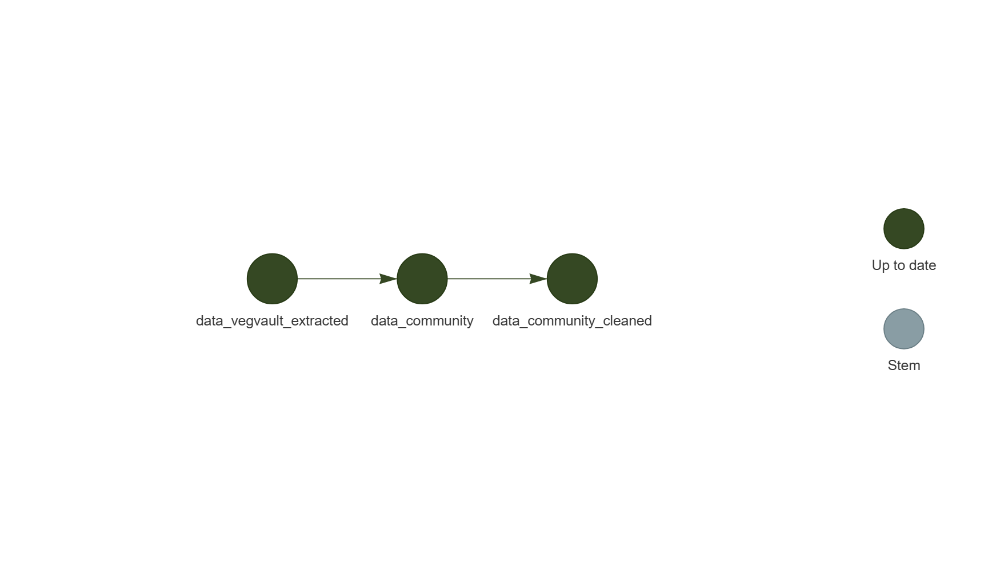
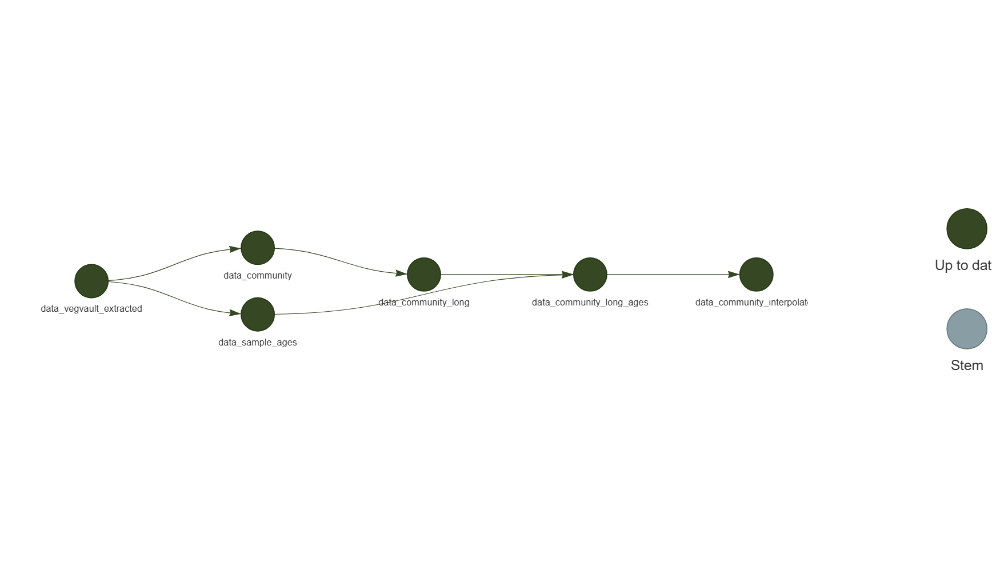
Europe Example: make a single timeslice (#4)

diff --git a/Outputs/Figures/project_status.html b/Outputs/Figures/project_status.html
@@ -5330,9 +5330,9 @@ HTMLWidgets.widget({
 </head>
 <body style="background-color: white;">
 <div id="htmlwidget_container">
-  <div class="visNetwork html-widget html-fill-item" id="htmlwidget-e1a15752258b21096684" style="width:960px;height:500px;"></div>
+  <div class="visNetwork html-widget html-fill-item" id="htmlwidget-cb9f623ae8463fe69940" style="width:960px;height:500px;"></div>
 </div>
-<script type="application/json" data-for="htmlwidget-e1a15752258b21096684">{"x":{"nodes":{"name":["data_community","data_community_cleaned","data_vegvault_extracted"],"type":["stem","stem","stem"],"description":[null,null,null],"status":["uptodate","uptodate","uptodate"],"seconds":[0.02,0.01,6.01],"bytes":[12845,11747,20741],"branches":[null,null,null],"label":["data_community","data_community_cleaned","data_vegvault_extracted"],"color":["#354823","#354823","#354823"],"id":["data_community","data_community_cleaned","data_vegvault_extracted"],"level":[2,3,1],"shape":["dot","dot","dot"]},"edges":{"from":["data_vegvault_extracted","data_community"],"to":["data_community","data_community_cleaned"],"color":["#354823","#354823"],"arrows":["to","to"]},"nodesToDataframe":true,"edgesToDataframe":true,"options":{"width":"100%","height":"100%","nodes":{"shape":"dot","physics":false},"manipulation":{"enabled":false},"edges":{"smooth":{"type":"cubicBezier","forceDirection":"horizontal"}},"physics":{"stabilization":false},"interaction":{"zoomSpeed":1},"layout":{"hierarchical":{"enabled":true,"levelSeparation":150,"direction":"LR"}}},"groups":null,"width":null,"height":null,"idselection":{"enabled":false,"style":"width: 150px; height: 26px","useLabels":true,"main":"Select by id"},"byselection":{"enabled":false,"style":"width: 150px; height: 26px","multiple":false,"hideColor":"rgba(200,200,200,0.5)","highlight":false},"main":{"text":"","style":"font-family:Georgia, Times New Roman, Times, serif;font-weight:bold;font-size:20px;text-align:center;"},"submain":null,"footer":null,"background":"rgba(0, 0, 0, 0)","highlight":{"enabled":true,"hoverNearest":false,"degree":{"from":1,"to":1},"algorithm":"hierarchical","hideColor":"rgba(200,200,200,0.5)","labelOnly":true},"collapse":{"enabled":true,"fit":false,"resetHighlight":true,"clusterOptions":null,"keepCoord":true,"labelSuffix":"(cluster)"},"legend":{"width":0.2,"useGroups":false,"position":"right","ncol":1,"stepX":100,"stepY":100,"zoom":true,"nodes":{"label":["Up to date","Stem"],"color":["#354823","#899DA4"],"shape":["dot","dot"]},"nodesToDataframe":true},"tooltipStay":300,"tooltipStyle":"position: fixed;visibility:hidden;padding: 5px;white-space: nowrap;font-family: verdana;font-size:14px;font-color:#000000;background-color: #f5f4ed;-moz-border-radius: 3px;-webkit-border-radius: 3px;border-radius: 3px;border: 1px solid #808074;box-shadow: 3px 3px 10px rgba(0, 0, 0, 0.2);"},"evals":[],"jsHooks":[]}</script>
-<script type="application/htmlwidget-sizing" data-for="htmlwidget-e1a15752258b21096684">{"viewer":{"width":450,"height":350,"padding":15,"fill":true},"browser":{"width":960,"height":500,"padding":40,"fill":false}}</script>
+<script type="application/json" data-for="htmlwidget-cb9f623ae8463fe69940">{"x":{"nodes":{"name":["data_community","data_community_interpolated","data_community_long","data_community_long_ages","data_sample_ages","data_vegvault_extracted"],"type":["stem","stem","stem","stem","stem","stem"],"description":[null,null,null,null,null,null],"status":["uptodate","uptodate","uptodate","uptodate","uptodate","uptodate"],"seconds":[0,0.76,0.02,0,0,6.01],"bytes":[12845,6217,13738,15310,2569,20741],"branches":[null,null,null,null,null,null],"label":["data_community","data_community_interpolated","data_community_long","data_community_long_ages","data_sample_ages","data_vegvault_extracted"],"color":["#354823","#354823","#354823","#354823","#354823","#354823"],"id":["data_community","data_community_interpolated","data_community_long","data_community_long_ages","data_sample_ages","data_vegvault_extracted"],"level":[2,5,3,4,2,1],"shape":["dot","dot","dot","dot","dot","dot"]},"edges":{"from":["data_vegvault_extracted","data_community_long_ages","data_community","data_community_long","data_sample_ages","data_vegvault_extracted"],"to":["data_community","data_community_interpolated","data_community_long","data_community_long_ages","data_community_long_ages","data_sample_ages"],"color":["#354823","#354823","#354823","#354823","#354823","#354823"],"arrows":["to","to","to","to","to","to"]},"nodesToDataframe":true,"edgesToDataframe":true,"options":{"width":"100%","height":"100%","nodes":{"shape":"dot","physics":false},"manipulation":{"enabled":false},"edges":{"smooth":{"type":"cubicBezier","forceDirection":"horizontal"}},"physics":{"stabilization":false},"interaction":{"zoomSpeed":1},"layout":{"hierarchical":{"enabled":true,"levelSeparation":250,"direction":"LR"}}},"groups":null,"width":null,"height":null,"idselection":{"enabled":false,"style":"width: 150px; height: 26px","useLabels":true,"main":"Select by id"},"byselection":{"enabled":false,"style":"width: 150px; height: 26px","multiple":false,"hideColor":"rgba(200,200,200,0.5)","highlight":false},"main":{"text":"","style":"font-family:Georgia, Times New Roman, Times, serif;font-weight:bold;font-size:20px;text-align:center;"},"submain":null,"footer":null,"background":"rgba(0, 0, 0, 0)","highlight":{"enabled":true,"hoverNearest":false,"degree":{"from":1,"to":1},"algorithm":"hierarchical","hideColor":"rgba(200,200,200,0.5)","labelOnly":true},"collapse":{"enabled":true,"fit":false,"resetHighlight":true,"clusterOptions":null,"keepCoord":true,"labelSuffix":"(cluster)"},"legend":{"width":0.2,"useGroups":false,"position":"right","ncol":1,"stepX":100,"stepY":100,"zoom":true,"nodes":{"label":["Up to date","Stem"],"color":["#354823","#899DA4"],"shape":["dot","dot"]},"nodesToDataframe":true},"tooltipStay":300,"tooltipStyle":"position: fixed;visibility:hidden;padding: 5px;white-space: nowrap;font-family: verdana;font-size:14px;font-color:#000000;background-color: #f5f4ed;-moz-border-radius: 3px;-webkit-border-radius: 3px;border-radius: 3px;border: 1px solid #808074;box-shadow: 3px 3px 10px rgba(0, 0, 0, 0.2);"},"evals":[],"jsHooks":[]}</script>
+<script type="application/htmlwidget-sizing" data-for="htmlwidget-cb9f623ae8463fe69940">{"viewer":{"width":450,"height":350,"padding":15,"fill":true},"browser":{"width":960,"height":500,"padding":40,"fill":false}}</script>
 </body>
 </html>

diff --git a/README.md b/README.md
@@ -4,10 +4,18 @@ This is a project to study the co-occurrence of vegetation across space and time
 
 ## Work in Progress
 
-This project is a work in progress. The code is not yet ready for production use.
+This project is a work in progress. The code is not yet ready!.
+  
+Currently, the project is coded as {[targets](https://docs.ropensci.org/targets/)} pipeline and can be executed using the following command:
+
+``` r
+source(
+  here::here("R/02_Main_analyses/01_Run_pipeline.R")
+)
+```
 
 ### Curent Status
 
-This is the visualization of the {[targets](https://docs.ropensci.org/targets/)} pipelie, which represent the current status of the project. 
+This is the visualization, which represent the current status of the project:
 
 ![](/Outputs/Figures/project_status_static.png)
